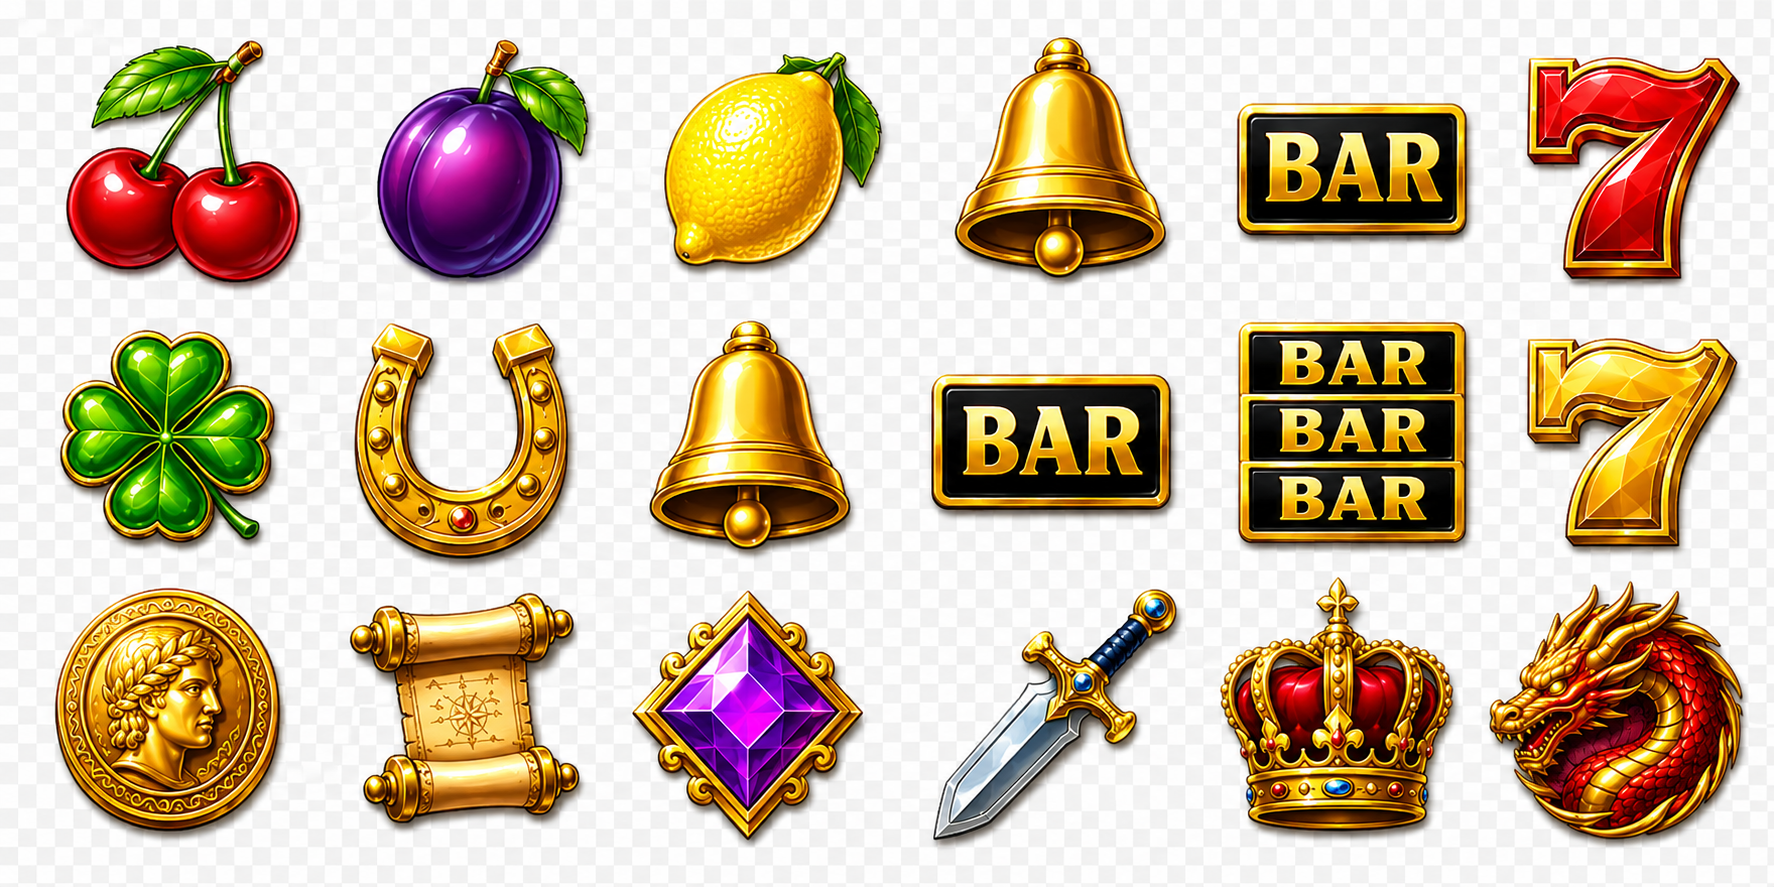
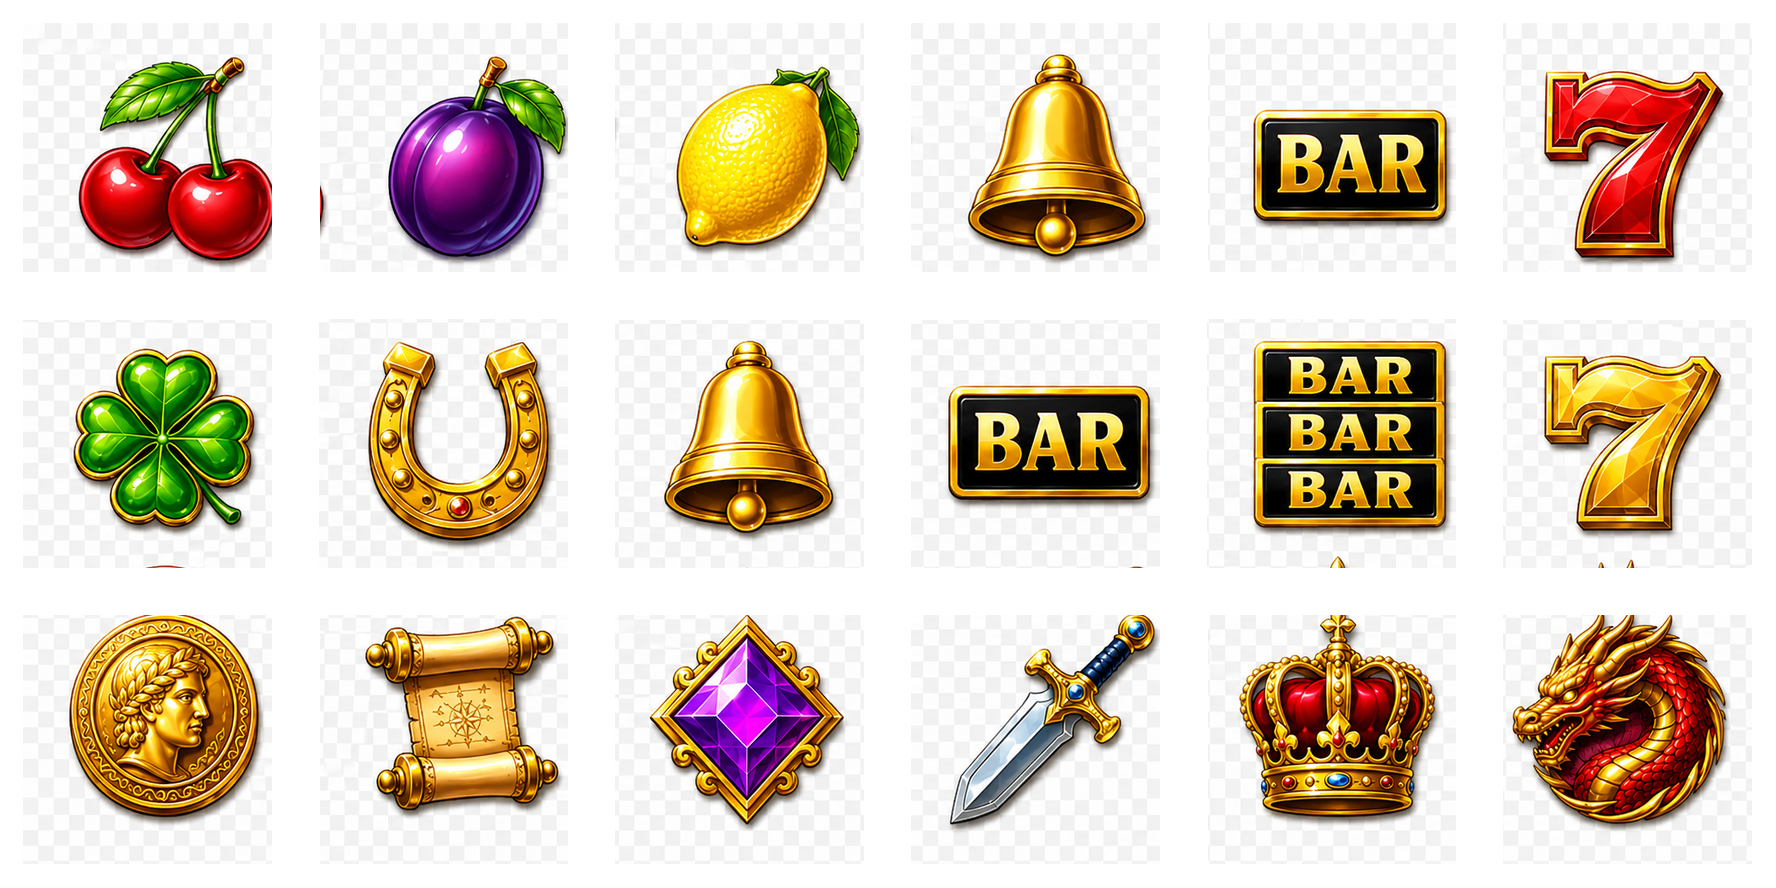
Slot Machine: align sprite cells; Animal Detective: fix mobile centering
assets/slot.png — rebuild the 6x3 sprite so every symbol is bbox-centered
inside its grid cell with consistent inner padding. The source art had
each symbol drawn at its own natural anchor (bell hung from a top
strap, cherries from stems, etc.), so cells on the same row appeared
visually misaligned in the reels.

animal-detective/index.html — same mobile-centering bug Blackjack and
Slot Machine had: with transform-origin: top center on a 1380x860
wrapper inside a narrow viewport, auto-margins evaluate to 0 and the
scaled visual ends up pushed off-screen at ~x=502. Switch to top left
so the scaled game sits flush at x=0 on mobile (and continues to fill
the viewport at desktop widths).

diff --git a/animal-detective/index.html b/animal-detective/index.html
@@ -57,7 +57,7 @@
   #game-wrapper {
     width: 1380px;
     height: 860px;
-    transform-origin: top center;
+    transform-origin: top left;
     margin: 0 auto;
   }
   #root {